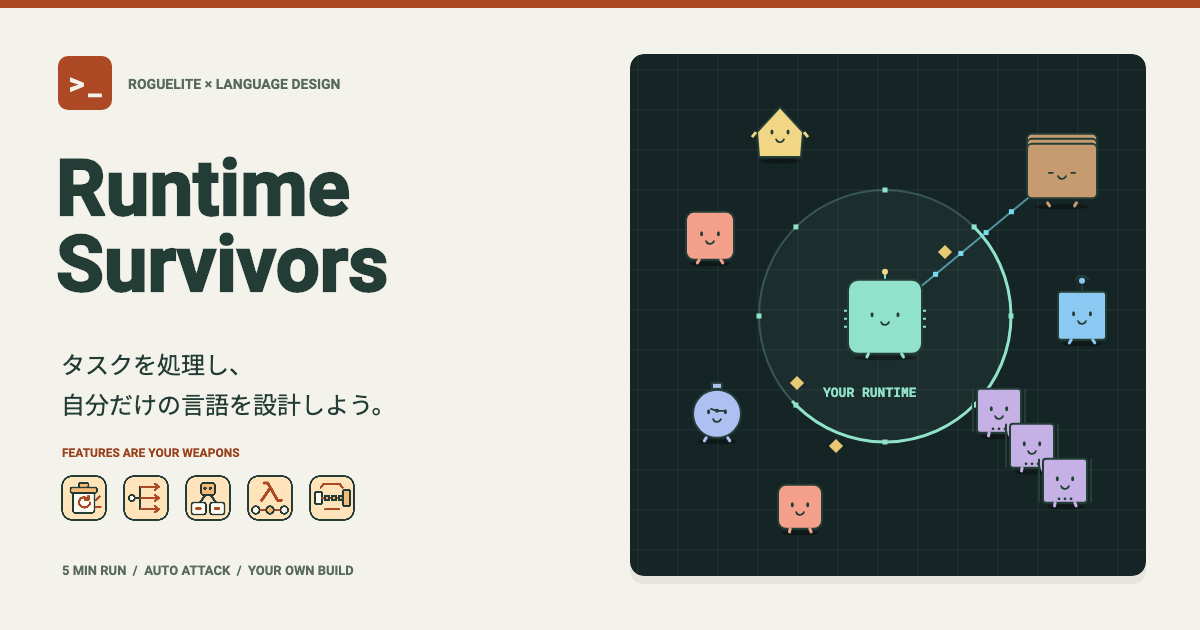
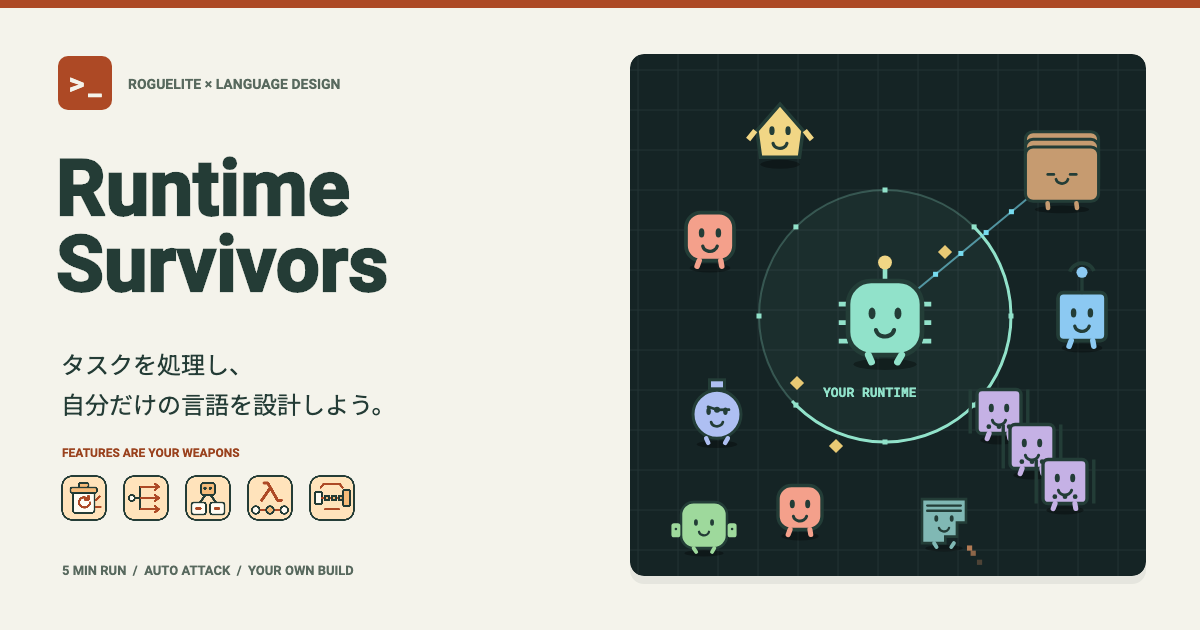
fix: preserve in-game character proportions in social artwork

diff --git a/tool/generate_social_image.dart b/tool/generate_social_image.dart
@@ -4,10 +4,12 @@ import 'dart:io';
 import 'dart:math';
 import 'dart:ui' as ui;
 
+import 'package:flame/components.dart' show Vector2;
 import 'package:flutter/painting.dart';
 import 'package:flutter_test/flutter_test.dart';
 import 'package:runtime_survivors/game/character_painter.dart';
 import 'package:runtime_survivors/game/build.dart';
+import 'package:runtime_survivors/game/combat_entities.dart';
 
 import '../test/support/runtime_fonts.dart';
 
@@ -52,10 +54,16 @@ void machine(
 }) {
   canvas.save();
   canvas.translate(at.dx, at.dy);
+  // Scale the complete in-game drawing, including its face and appendages.
+  // Increasing radius alone stretches only the body and changes its likeness.
+  final nativeRadius = player
+      ? 16.0
+      : TaskEnemy(Vector2.zero(), kind: kind).radius;
+  canvas.scale(radius / nativeRadius);
   CharacterPainter.draw(
     canvas,
     kind: kind,
-    radius: radius,
+    radius: nativeRadius,
     player: player,
     time: 1.2,
   );
@@ -246,6 +254,8 @@ void main() {
       machine(canvas, 11, Offset(999 + i * 33, 410 + i * 35), 22);
     }
     machine(canvas, 14, const Offset(717, 413), 24);
+    machine(canvas, 5, const Offset(704, 524), 23);
+    machine(canvas, 13, const Offset(944, 520), 22);
     machine(canvas, 0, player, 37, player: true);
     label(
       canvas,

diff --git a/docs/development.md b/docs/development.md
@@ -108,6 +108,8 @@ flutter test tool/generate_upgrade_icons.dart
 flutter test tool/generate_social_image.dart
 ```
 
+キャラクターはゲーム本体と同じ半径で描画した後、Canvas全体を拡大します。体の半径だけを増やすと目・口・手足との比率が変わるため、顔・輪郭・付属物を含めて拡大します。プレイヤーの半径は16、敵は `TaskEnemy.radius` を参照します。
+
 タイトル・キャラ・能力を小さいプレビューでも見分けられるように構成しています。`web/index.html` にOGPと大きな画像のTwitter Cardメタ情報、画像サイズ・代替テキスト・canonical URLを設定。Flutter起動前に読み取れる静的HTMLです。`web/` の画像はビルド時にWeb成果物のルートへコピーされます。
 
 共有先のURLは現在のGitHub Pages（`https://okaryo.github.io/runtime-survivors/`）です。ホスト先を変える場合はcanonical・og:url・og:image・twitter:imageとREADMEのリンクを更新してください。画像やメタ情報の公開には通常のpush・CI配信が必要です。GitHubリポジトリ自体のSocial preview設定は別で、ここでは変更しません。
